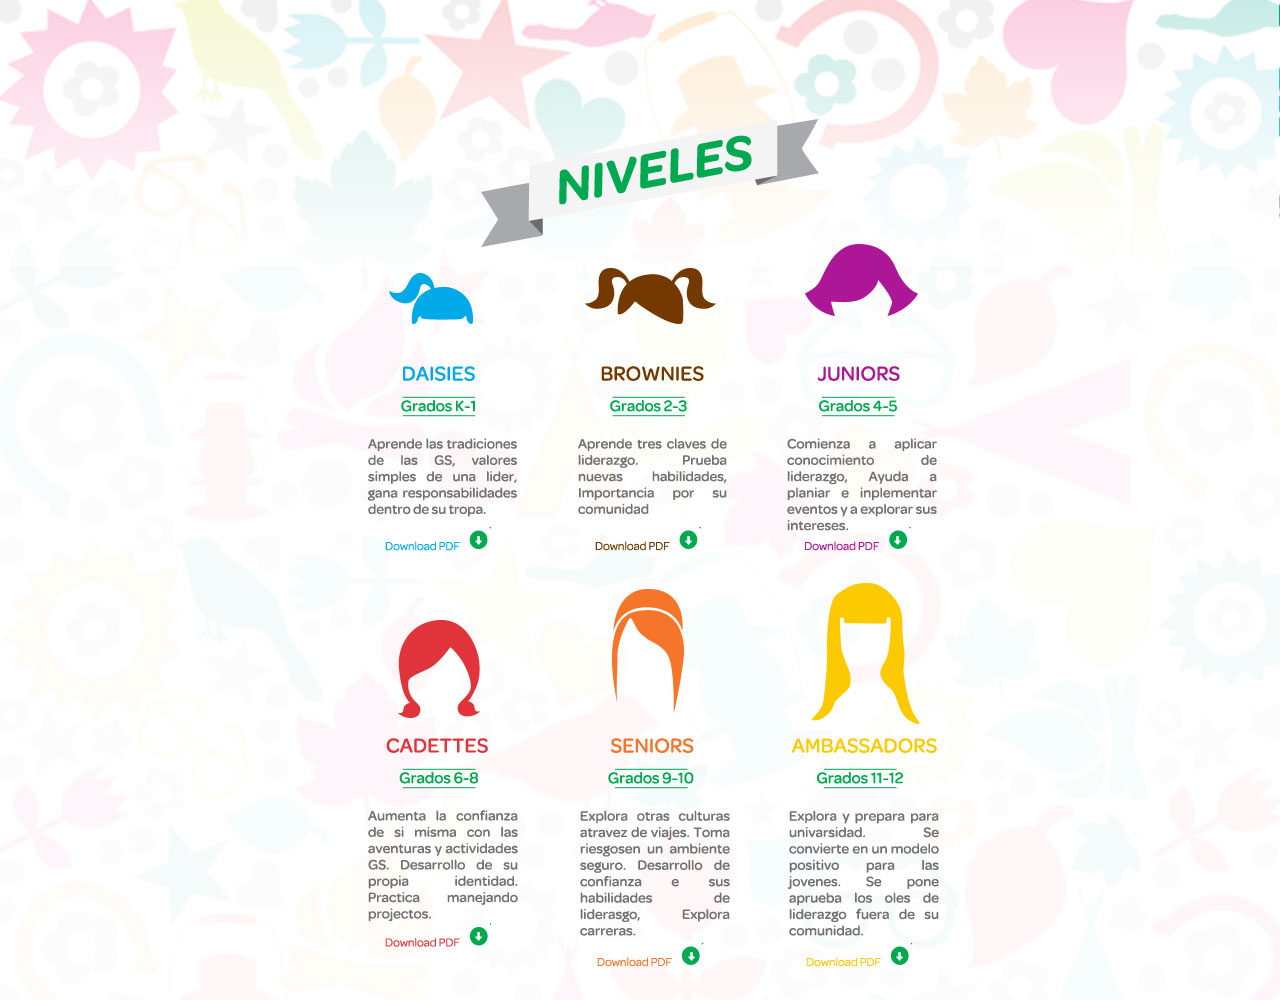
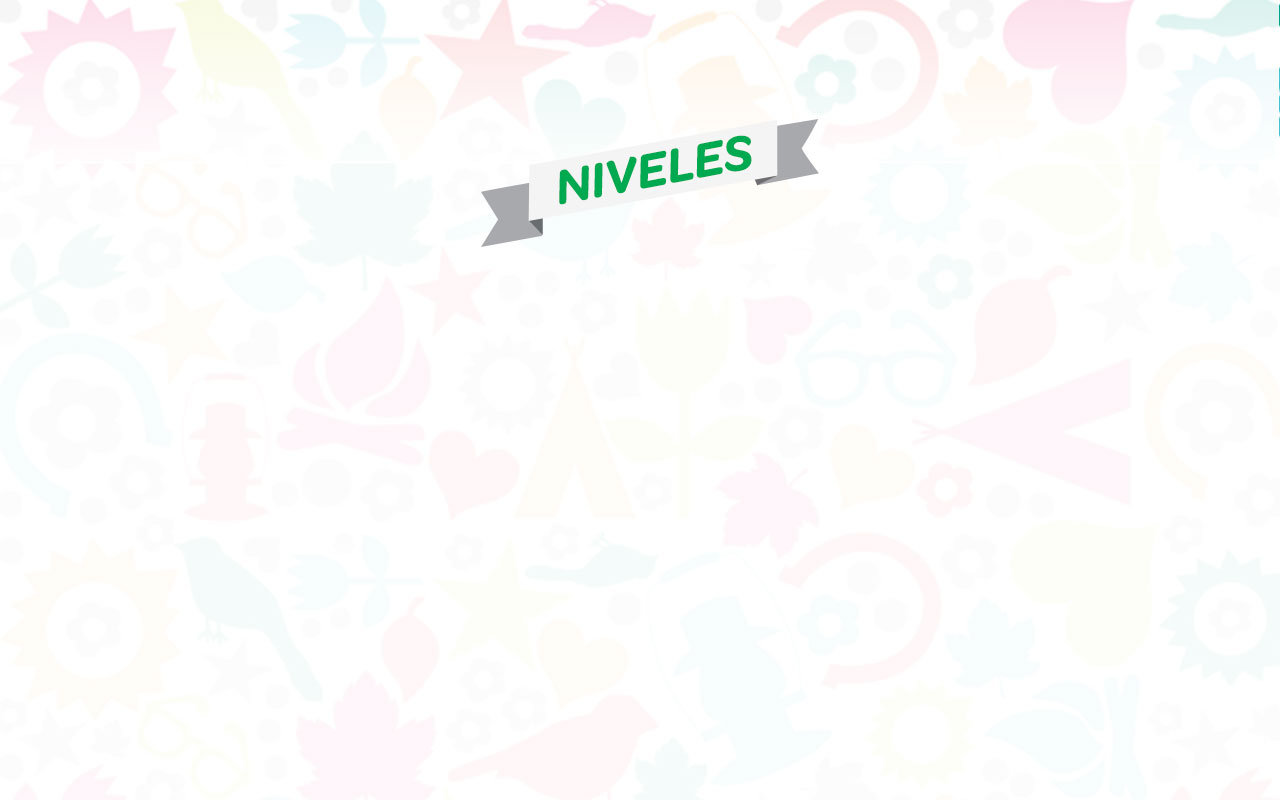
some changes

diff --git a/js/main.js b/js/main.js
@@ -87,11 +87,21 @@ $(document).ready(function()
 	var unslider = $('#carouselMetas').unslider({
 		delay: false,              //  The delay between slide animations (in milliseconds)
 	});
-	$('.unslider-arrow').click(function() {
+	$('.metas .unslider-arrow').click(function() {
         var fn = $(this).data('slide');
         
         //  Either do unslider.data('unslider').next() or .prev() depending on the className
         unslider.data('unslider')[fn]();
+    });
+	
+	var nivelesUnslider = $('#carouselNiveles').unslider({
+		delay: false,              //  The delay between slide animations (in milliseconds)
+	});
+	$('.niveles .unslider-arrow').click(function() {
+        var fn = $(this).data('slide');
+        
+        //  Either do unslider.data('unslider').next() or .prev() depending on the className
+        nivelesUnslider.data('unslider')[fn]();
     });
 	
 	// Promesa y Ley

diff --git a/css/main.css b/css/main.css
@@ -161,6 +161,14 @@ section .metas .carousel-control.right {
 	left: auto;
 	right: -75px;
 }
+section .niveles .carousel-control {
+	top: 179px;
+	left: 100px;
+}
+section .niveles .carousel-control.right {
+	left: auto;
+	right: -100px;
+}
 .form-contacto {
 	background-color:#ffffff;
 	height: 317px;
@@ -450,3 +458,16 @@ ul.programaPopMenu li {
 #carouselMetas { min-width: 719px; min-height: 264px; position: relative; overflow: auto; }
 #carouselMetas li { list-style: none; }
 #carouselMetas ul li { float: left; }
+
+.niveles {
+	position: absolute;
+	left: 50%;
+	margin-left: -285px;
+	top: 34%;
+	width: 571px;
+	height: 387px; 
+}
+
+#carouselNiveles { min-width: 571px; min-height: 387px; position: relative; overflow: auto; }
+#carouselNiveles li { list-style: none; }
+#carouselNiveles ul li { float: left; }
